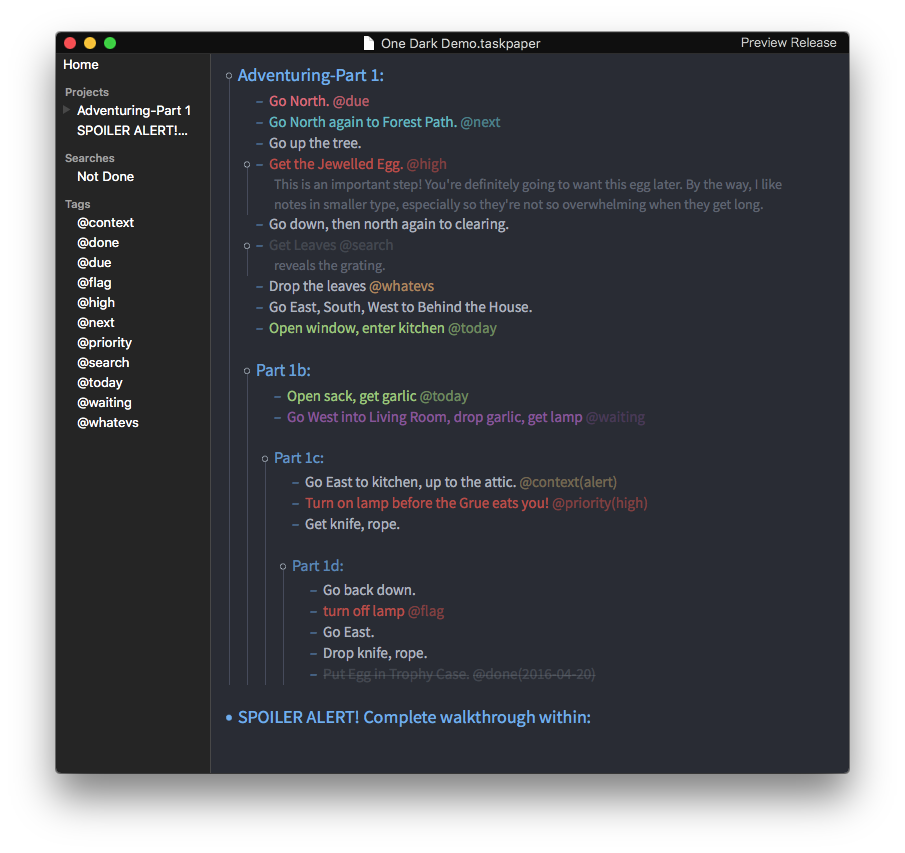
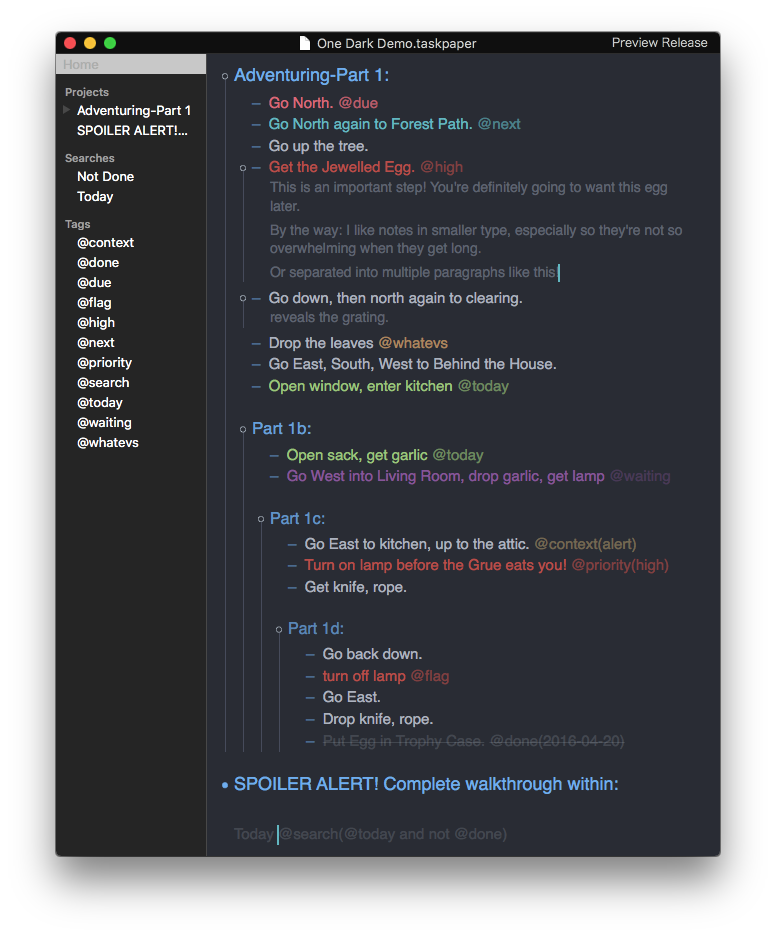
- Commented out the custom font-family by default. [I'm enamored lately with **San Francisco** for prose (current TP default) and [**Hack**](http://sourcefoundry.org/hack/) for code.] You can easily insert your current favourite typeface on line 2 and remove //comment. - reduced the multiple line he

Changed region(s): [[0.0619, 0.0305, 0.9588, 0.9144], [0.2474, 0.823, 0.8041, 0.8535]]

diff --git a/Atom-One-Dark-Blue.less b/Atom-One-Dark-Blue.less
@@ -1,41 +1,42 @@
 // Base -----------------------------------
+// @font-family: Source Sans Pro;
 @base-font-size: 16;
 @user-font-size: $USER_FONT_SIZE;
 @ui-scale: @user-font-size / @base-font-size;
-@font-family: Source Sans Pro;
-@line-height-multiple: 1.1;
+@line-height-multiple: 1.2;
 @syntax-hue: 220;
 @syntax-saturation: 13%;
 @syntax-brightness: 18%;
 
 // Monochrome -----------------------------------
-@mono-1: hsl(@syntax-hue, 14%, 71%); // default text
-@mono-2: hsl(@syntax-hue, 9%, 55%);
-@mono-3: hsl(@syntax-hue, 10%, 40%);
+@mono-1: hsl(@syntax-hue, 14%, 71%); // Mischka or Cadet Blue, default text
+@mono-2: hsl(@syntax-hue, 9%, 55%); // Light Slate Grey or Oslo Gray
+@mono-3: hsl(@syntax-hue, 10%, 40%); // Shuttle Grey
 
 
 // Colors -----------------------------------
-@color1: hsl(187, 47%, 55%);
-@color2: hsl(207, 82%, 66%);
-@color3: hsl(286, 60%, 67%);
-@color4: hsl( 95, 38%, 62%);
-@color5: hsl(355, 65%, 65%);
-@color6: hsl( 5, 48%, 51%);
-@color7: hsl( 29, 54%, 61%);
-@color8: hsl( 39, 67%, 69%);
+@color1: hsl(187, 47%, 55%); // Fountain Blue
+@color2: hsl(207, 82%, 66%); // Malibu
+@color3: hsl(286, 60%, 67%); // Soft Purple
+@color4: hsl(95, 38%, 62%); // Pistachio
+@color5: hsl(355, 65%, 65%); // Froly
+@color6: hsl(5, 48%, 51%); // Sunset
+@color7: hsl(29, 54%, 61%); // Whiskey
+@color8: hsl(39, 67%, 69%); // Chalky
 
 // Base colors -----------------------------------
+@project-color: @color2;
 @text-color: @mono-1;
-@bg-color: hsl(@syntax-hue, @syntax-saturation, @syntax-brightness);
+@bg-color: hsl(@syntax-hue, @syntax-saturation, @syntax-brightness); // Ebony or Charade
+@message-color: mix(@text-color, @bg-color, 50%);
+@tag-color: fade(@color7, 80%);
 
 // UI Colors -----------------------------------
 @tint-color: @color2;
 @interface-color: @tint-color;
-@selection-color: mix(@text-color, @bg-color, 5%);
+@selection-color: lighten(@bg-color, 10%); // Blue Zodiac or Bright Gray
 @invisibles-color: fade(@tint-color, 50%);
 @guide-color: darken(@mono-1, 26%);
-@message-color: mix(@text-color, @bg-color, 50%);
-@tag-color: fade(@color7, 80%);
 
 window {
   appearance: NSAppearanceNameVibrantDark;
@@ -49,7 +50,7 @@ editor {
     item-handle-size: 6;
     item-indent: 20px * @ui-scale;
     caret-width: 2px;
-    caret-color: @color2;
+    caret-color: @color1;
     handle-color: @guide-color;
     drop-indicator-color: @tint-color;
     invisibles-color: @invisibles-color;
@@ -66,28 +67,28 @@ editor {
 item[depth=1][data-type=project] {
     font-weight: semi-bold;
     font-size: 18;
-    color: @color2;
+    color: @project-color;
     paragraph-spacing-before: 20;
     paragraph-spacing-after: 3;
 }
 item[depth=2][data-type=project] {
     font-weight: semi-bold;
     font-size: 17;
-    color: fade(@color2, 90%);
+    color: fade(@project-color, 90%);
     paragraph-spacing-before: 20;
     paragraph-spacing-after: 3;
 }
 item[depth=3][data-type=project] {
     font-weight: semi-bold;
     font-size: 16;
-    color: fade(@color2, 80%);
+    color: fade(@project-color, 80%);
     paragraph-spacing-before: 20;
     paragraph-spacing-after: 3;
 }
 item[depth=4][data-type=project] {
     font-weight: semi-bold;
     font-size: 16;
-    color: fade(@color2, 70%);
+    color: fade(@project-color, 70%);
     paragraph-spacing-before: 20;
     paragraph-spacing-after: 3;
 }
@@ -98,18 +99,21 @@ item[data-type="note"] {
     font-style: normal;
     font-size: 14;
     color: @mono-3;
+    line-height-multiple: 1.1;
+    paragraph-spacing-after: 5;
 }
 
 // Handle styles -----------------------------------
 item {
   handle-color: none;
-  handle-border-color: @invisibles-color;
-  handle-border-width: floor(1 * @ui-scale);
-
+  handle-border-color: @guide-color ;
+  handle-border-width: 0.5;
+  // handle-border-width: floor(1 * @ui-scale);
 }
+
 item[collapsed] {
-  handle-color: @color2;
-  handle-border-color: @color2;
+  handle-color: @project-color;
+  handle-border-color: @project-color;
 }
 
 item[filtered] {

diff --git a/README.md b/README.md
@@ -6,15 +6,49 @@ A dark StyleSheet/Theme for [TaskPaper 3](http://taskpaper.com) heavily inspired
 
 ## Colours/Colors
 
-- _Fountain Blue_ for items tagged @next
-- _Malibu Blue_ for URLs and Projects (gradually faded from Project levels 1-4)
-- _Soft Purple_ for items tagged @waiting
-- _Pistachio Green_ for items tagged @today, @active or @now (this is especially useful in conjunction with [this great script](http://support.hogbaysoftware.com/t/script-displaying-the-active-task-in-the-os-x-menu-bar/1290) by @complexpoint)
-- _Froly Red_ for items tagged @due
-- _Sunset Red_ for items tagged @flag, @high, @hot, @priority(high) or @prio(1)
-- _Whisky Orange_ for vanilla tags
-- _Faded Chalky Orange_ for context tags
-- Text selections are a subtle mix of fore/background colors as in the original One Dark Atom theme
+- <span style="color:hsl(187, 47%, 55%);">Fountain Blue</span>
+
+  for items tagged @next
+
+- <span style="color:hsl(207, 82%, 66%);">Malibu</span>
+
+  for URLs and Projects (gradually faded from Project levels 1-4)
+
+- <span style="color:hsl(286, 60%, 67%);">Soft Purple</span>
+
+  for items tagged @waiting
+
+- <span style="color:hsl(95, 38%, 62%);">Pistachio</span>
+
+  for items tagged @today, @active or @now (this is especially useful in conjunction with [this great script](http://support.hogbaysoftware.com/t/script-displaying-the-active-task-in-the-os-x-menu-bar/1290) by @complexpoint)
+
+- <span style="color:hsl(355, 65%, 65%);">Froly</span>
+
+  for items tagged @due
+
+- <span style="color:hsl(5, 48%, 51%);">Sunset</span>
+
+  for items tagged @flag, @high, @hot, @priority(high) or @prio(1)
+
+- <span style="color:hsl(29, 54%, 61%);">Whiskey</span>
+
+  for vanilla tags
+
+- <span style="color:hsl(39, 67%, 69%);">Chalky</span>
+
+  for context tags
+
+- <span style="color:hsl(220, 14%, 71%);">Mischka</span>
+
+  for text
+
+- <span style="color:hsl(220, 13.29%, 28.04%);">Bright Gray</span>
+
+  for selections
+
+- <span style="color:hsl(220, 13%, 18%);">Ebony</span>
+
+  for background
 
 ## Other Style Features
 
@@ -48,11 +82,20 @@ Backup then replace the **theme.less** file located at:
 - create colour variations (first might re-instate Pedro's favoured Orange project titles)
 - add distinction between due and overdue?
 
-- add subtle variation to Priority levels @done
+- <span style="text-decoration:line-through;">add paragraph spacing? @done</span>
 
-- style the Sidebar if this becomes possible (white is really jarring against a dark theme, so I recommend hiding it and the Toolbar most of the time). @done
+- <span style="text-decoration:line-through;">add subtle variation to Priority levels @done</span>
+
+- <span style="text-decoration:line-through;">style the Sidebar if this becomes possible (white is really jarring against a dark theme, so I recommend hiding it and the Toolbar most of the time). @done</span>
 
 ## RELEASE NOTES
+
+**2016-09-03:**
+
+- Commented out the custom font-family by default. [I'm enamored lately with **San Francisco** for prose (current TP default) and [**Hack**](http://sourcefoundry.org/hack/) for code.] You can easily insert your current favourite typeface on line 2 and remove //comment.
+- reduced the multiple line height by .1 but still tighter than the default 1.3\. Largely because...
+- Notes Pro: added some more professional looking paragraph and line-spacing for notes, especially if they consist of multiple paragraphs. [Thanks @mylevelbest for bringing this to my attention].
+- increased contrast of selection color back to One Dark default of 10% lighter than background. I like the mixing of text/background idea but it lends to some subtle difference between task/note selection color (especially in future theme variants!)
 
 **2016-08-29:**
 
